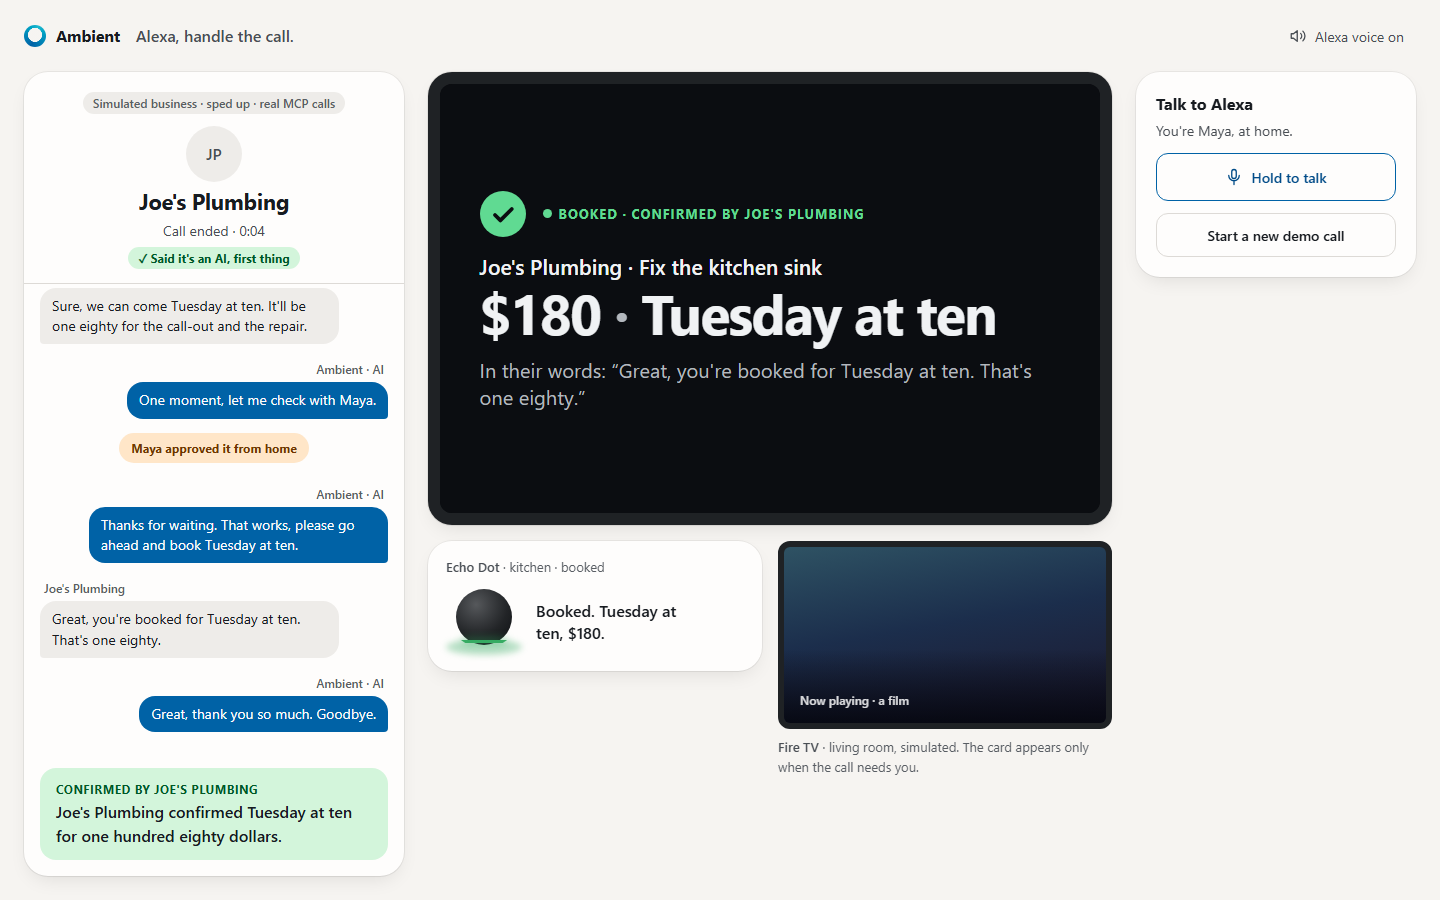
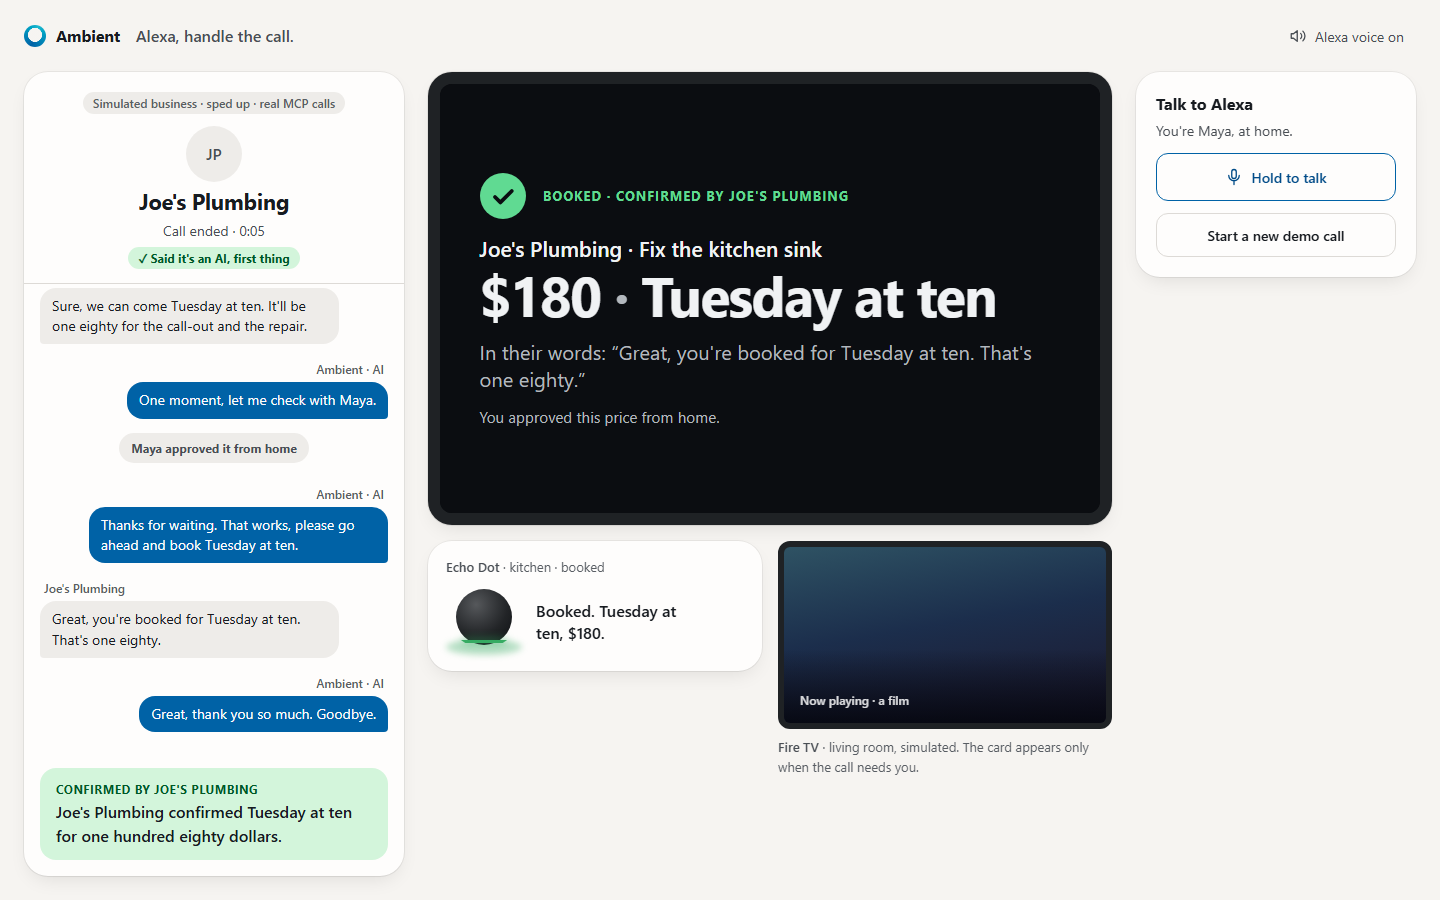
Give every card state its errand, limit, and one plain next line
UI critic round 7 asked for less text and steadier context. The
needs-you caption is gone and the offer reads "Offer $160 instead".
The idle and live cards show the errand and the limit, the live card
shows the business's last line and a call clock instead of three
transcript rows, and an approved booking says "You approved this
price from home." The booked chip drops its dot beside the check, the
header keeps a fixed status slot, owner-action chips are neutral, the
dark-mode device has a clear edge, and the business page shows the
Ambient ring instead of a letter.

Changed region(s): [[0.3125, 0.1867, 0.7188, 0.4667], [0.0625, 0.4667, 0.2188, 0.5289]]

diff --git a/src/task-view.ts b/src/task-view.ts
@@ -39,6 +39,7 @@ button:focus-visible{outline:2px solid var(--call);outline-offset:3px}
 .sep{color:var(--dim)}
 .check{display:none;width:2.2em;height:2.2em;border-radius:50%;background:var(--done);color:var(--bg);place-items:center}
 .check svg{width:62%;height:62%;fill:none;stroke:currentColor;stroke-width:3.2;stroke-linecap:round;stroke-linejoin:round;stroke-dasharray:24;stroke-dashoffset:0}
+body.booked .chip::before{display:none}
 body.booked .check{display:grid;animation:land 420ms cubic-bezier(0.2,0,0,1) both}
 body.booked .check path{animation:draw 600ms 180ms cubic-bezier(0.2,0,0,1) both}
 @keyframes land{0%{transform:scale(.4);opacity:0}100%{transform:scale(1);opacity:1}}
@@ -68,7 +69,7 @@ body[data-device="tv"] .stake{font-size:1.15em;line-height:1.3;white-space:nowra
 body[data-device="tv"] .tvline{display:block}
 .tvline{display:none;font-size:max(13px,.7em);font-weight:650;color:var(--needs);letter-spacing:.02em}
 @media (max-width:480px){
- body:not([data-device="tv"]){font-size:15px;padding:22px 20px;gap:12px;overflow:auto}
+ body:not([data-device="tv"]){font-size:15px;padding:24px 20px;gap:12px;overflow:auto;justify-content:flex-start}
  body:not([data-device="tv"]) .stake{font-size:2.1em}
  body:not([data-device="tv"]) .sep{display:none}
  body:not([data-device="tv"]) .when{display:block}
@@ -104,6 +105,7 @@ const usd=n=>"$"+Number(n).toLocaleString("en-US",{maximumFractionDigits:2});
 const clock=ms=>{const s=Math.max(0,Math.floor(ms/1000));return Math.floor(s/60)+":"+String(s%60).padStart(2,"0");};
 const DEMO="Call Joe's Plumbing and book a visit tomorrow to fix the kitchen sink, keep it under 150";
 function errand(title){const m=/\\bto ([a-z][^,.]{2,48})/i.exec(title||"");return m?cap(m[1].trim()):"";}
+function limitOf(text){const m=/\\b(?:under|below|up to|no more than|max(?:imum)?)\\s+\\$?(\\d[\\d,]*)/i.exec(text||"");return m?"limit $"+m[1]:"";}
 function business(steps){for(const s of steps){const m=/^(?:Calling|Connected to) (.+)$/.exec(s);if(m)return m[1];}return "";}
 function speaker(s,biz){const who=["Ambient",biz].find(n=>n&&s.startsWith(n+": "));if(who)return{who,text:s.slice(who.length+2)};const m=/^([^:]{1,40}): (.+)$/.exec(s);return m?{who:m[1],text:m[2]}:null;}
 function speakers(steps,biz){return steps.map(s=>speaker(s,biz)).filter(Boolean);}
@@ -142,23 +144,29 @@ function render(d){
   const hold=()=>{$("clock").textContent=Number.isFinite(since)?"On hold "+clock(Date.now()-since):"";};
   if(ap.kind!=="dial"){hold();tick=setInterval(hold,1000);}
   buttons([{label:ap.amountUsd!==undefined?"Approve "+usd(ap.amountUsd):"Approve",kind:"primary",run:()=>act("approve",{decision:"once"})},
-   ...offers(ap).map(v=>({label:"Offer "+usd(v),kind:"offer",run:()=>act("delegate",{task:"offer "+v})})),
+   ...offers(ap).map(v=>({label:"Offer "+usd(v)+" instead",kind:"offer",run:()=>act("delegate",{task:"offer "+v})})),
    {label:"Decline",kind:"quiet",run:()=>act("approve",{decision:"deny"})}]);
-  hint.textContent=ap.kind==="dial"?"":"Ambient keeps "+biz+" on the line while you decide. Declining ends the call politely, and nothing is booked.";}
+  }
  else if(o){const ok=o.kind==="confirmed";chip.className="chip "+(ok?"done":"warn");
   if(ok)document.body.classList.add("booked");
   chip.textContent=ok?"Booked \\u00b7 confirmed by "+biz:o.kind==="unconfirmed"?"Not confirmed":o.kind==="declined"?"Declined":"No deal";
   if(ok){$("what").textContent=what?biz+" \\u00b7 "+what:biz;setStake(o.amountUsd,cap(o.when||biz));}
   else stake.textContent=biz;
   sub.textContent=ok?(theirs?"In their words: \\u201c"+theirs.text+"\\u201d":"Booked with "+biz+"."):t.status==="cancelled"?"You ended the call before "+biz+" confirmed. Nothing was booked.":cap(o.reason)+". Nothing was booked.";
+  const mine=said.filter(l=>l.who!=="Ambient"&&l.who!==biz);
+  if(ok)hint.textContent=mine.some(l=>/ approved: /.test(l.text))?"You approved this price from home.":mine.some(l=>/^offer\\b/i.test(l.text))?"You offered this price from home.":limitOf(t.instruction)?"Within your "+limitOf(t.instruction).slice(6)+" limit.":"";
   if(!ok){if(theirs)foot([{who:"Last from "+biz,text:"\\u201c"+esc(theirs.text)+"\\u201d"}]);
    buttons([{label:"Call again",kind:"call",run:()=>act("delegate",{task:DEMO,newConversation:true})}]);}}
  else if(live){chip.className="chip";chip.textContent=connected?"On the phone":"Calling";
+  $("what").textContent=[what,limitOf(t.instruction)].filter(Boolean).join(" \\u00b7 ");
   stake.textContent=biz;
-  sub.textContent=owner?ownerSaid(owner,biz):connected?biz+" answered. Ambient said it is an AI.":"Ringing\\u2026 Ambient will say it is an AI first.";
-  foot(said.filter(l=>l.who==="Ambient"||l.who===biz).slice(-3).map(l=>({who:l.who,text:esc(cap(l.text))})));}
+  sub.textContent=owner?ownerSaid(owner,biz):theirs?"\\u201c"+cap(theirs.text)+"\\u201d":connected?biz+" answered. Ambient said it is an AI.":"Ringing\\u2026 Ambient will say it is an AI first.";
+  const began=Date.parse(t.createdAt||"");
+  const tickCall=()=>{$("clock").textContent=connected&&Number.isFinite(began)?clock(Date.now()-began):"";};
+  tickCall();tick=setInterval(tickCall,1000);}
  else{chip.className="chip idle";chip.textContent="Ready";stake.textContent="Nobody wants to make this call.";
   sub.textContent="Ambient makes it for you. It says it is an AI, and it asks you before it spends over your limit.";
+  $("what").textContent="Fix the kitchen sink \\u00b7 limit $150";
   buttons([{label:"Call Joe's Plumbing",kind:"call",run:()=>act("delegate",{task:DEMO,newConversation:true})}]);
   hint.textContent="Or say \\u201cAlexa, tell Ambient to call Joe's Plumbing.\\u201d";}}
 render({});

diff --git a/web/sim/index.html b/web/sim/index.html
@@ -53,7 +53,7 @@
     --device:oklch(0.32 0.008 255);
     --lift:0 0 0 1px oklch(1 0 0 / .08);
   }
-  .show8{box-shadow:inset 0 0 0 1px oklch(1 0 0 / .12),var(--lift)}
+  .show8{box-shadow:inset 0 0 0 1px oklch(1 0 0 / .16),0 0 0 1px oklch(1 0 0 / .10)}
   .sphere{background:radial-gradient(circle at 36% 28%,oklch(0.56 0.006 255),oklch(0.36 0.006 255) 58%,oklch(0.27 0.006 255));box-shadow:inset 0 1px 0 oklch(1 0 0 / .14)}
 }
 *{box-sizing:border-box;margin:0}
@@ -75,7 +75,8 @@ header{display:flex;align-items:center;gap:16px;padding:16px 24px 12px;min-heigh
 .toggle svg{width:18px;height:18px}
 .pill{display:none;align-items:center;gap:8px;min-height:36px;padding:0 14px;border-radius:999px;background:var(--call-soft);color:var(--call-text);font-weight:600}
 .pill i{width:8px;height:8px;border-radius:50%;background:currentColor}
-body[data-phase="live"] .pill{display:inline-flex}
+body[data-phase="live"] .pill,body[data-phase="needs"] .pill{display:inline-flex}
+body[data-phase="needs"] .pill{background:var(--needs-soft);color:var(--needs-ink)}
 
 main{flex:1;display:grid;grid-template-columns:minmax(330px,380px) minmax(0,1fr) 280px;gap:24px;padding:4px 24px 24px;min-height:0}
 
@@ -97,7 +98,7 @@ main{flex:1;display:grid;grid-template-columns:minmax(330px,380px) minmax(0,1fr)
 .bubble.agent{align-self:flex-end;background:var(--call);color:var(--call-ink);border-bottom-right-radius:4px}
 .who{font-size:12px;color:var(--ink-3);margin:8px 4px -4px;font-weight:550}
 .who.agent{align-self:flex-end}.who.business{align-self:flex-start}
-.note{align-self:center;max-width:90%;margin:6px 0;padding:6px 12px;border-radius:999px;background:var(--needs-soft);color:var(--needs-ink);font-size:12px;font-weight:650;text-align:center}
+.note{align-self:center;max-width:90%;margin:6px 0;padding:6px 12px;border-radius:999px;background:var(--sunk);color:var(--ink-2);font-size:12px;font-weight:650;text-align:center}
 .sys{align-self:center;color:var(--ink-3);font-size:12px;margin:4px 0}
 .memory{align-self:center;max-width:90%;padding:6px 12px;border-radius:var(--r-ctl);border:1px dashed var(--line);color:var(--ink-2);font-size:12px;text-align:center}
 .empty{margin:auto;max-width:280px;text-align:center;color:var(--ink-2);display:flex;flex-direction:column;gap:8px;align-items:center;padding:24px 0}
@@ -105,6 +106,7 @@ main{flex:1;display:grid;grid-template-columns:minmax(330px,380px) minmax(0,1fr)
 .callfoot{padding:12px 16px 16px;display:flex;flex-direction:column;gap:8px;align-items:center}
 .outcome{width:100%;padding:12px 16px;border-radius:16px;display:none;gap:2px;flex-direction:column}
 .outcome.show{display:flex}
+.outcome p,.outcome div{text-wrap:balance}
 .outcome.ok{background:var(--go-soft)}
 .outcome.not{background:var(--warn-soft)}
 .outcome .label{font-size:12px;font-weight:650;letter-spacing:.04em;text-transform:uppercase}
@@ -178,7 +180,7 @@ body[data-phase="needs"] .tv .devlabel{visibility:hidden}
   main{grid-template-columns:1fr;padding:4px 16px 16px}
   .call{min-height:72vh}
   .room{grid-template-columns:1fr}
-  .show8{aspect-ratio:5/8}
+  .show8{aspect-ratio:3/4}
   .kitchen{min-height:auto}
   body[data-phase="needs"] .kitchen{order:-1}
   body[data-phase="needs"] .call{min-height:0}

diff --git a/web/call/index.html b/web/call/index.html
@@ -27,7 +27,8 @@ button{font:inherit;color:inherit}
 h1{font-size:34px;font-weight:600;letter-spacing:-.02em;line-height:1.1}
 .ai{display:inline-flex;align-items:center;gap:6px;font-size:14px;font-weight:600;color:var(--ai);border:1px solid oklch(0.80 0.11 225 / .4);border-radius:999px;padding:4px 12px}
 .why{max-width:320px;color:var(--ink-2);font-size:15px}
-.avatar{margin:40px 0 0;width:112px;height:112px;border-radius:50%;display:grid;place-items:center;background:oklch(0.26 0.015 250);color:var(--ink-2);font-size:40px;font-weight:600;position:relative}
+.avatar{margin:40px 0 0;width:112px;height:112px;border-radius:50%;display:grid;place-items:center;background:oklch(0.22 0.015 250);box-shadow:0 0 0 2px oklch(0.80 0.11 225 / .4);position:relative}
+.avatar::before{content:"";width:56px;height:56px;border-radius:50%;background:radial-gradient(circle at 50% 45%,oklch(0.22 0.015 250) 0 42%,transparent 44%),conic-gradient(from 200deg,oklch(0.80 0.11 225),oklch(0.72 0.12 210),oklch(0.80 0.11 225))}
 .avatar::after{content:"";position:absolute;inset:-10px;border-radius:50%;border:2px solid oklch(0.80 0.11 225 / .8);opacity:0}
 body[data-state="ringing"] .avatar::after,body[data-state="speaking"] .avatar::after{animation:ring 1.8s cubic-bezier(0.2,0,0,1) infinite}
 @keyframes ring{0%{opacity:.9;transform:scale(.92)}100%{opacity:0;transform:scale(1.18)}}
@@ -56,7 +57,7 @@ body[data-state="ringing"] .avatar::after,body[data-state="speaking"] .avatar::a
   <span class="ai">AI assistant</span>
   <p class="why" id="why">Calling for a customer. This call is transcribed.</p>
 </div>
-<div class="avatar" aria-hidden="true">A</div>
+<div class="avatar" aria-hidden="true"></div>
 <div class="captions" id="captions" aria-live="polite"></div>
 <div class="spacer"></div>
 <div class="actions" id="ringingActions">
